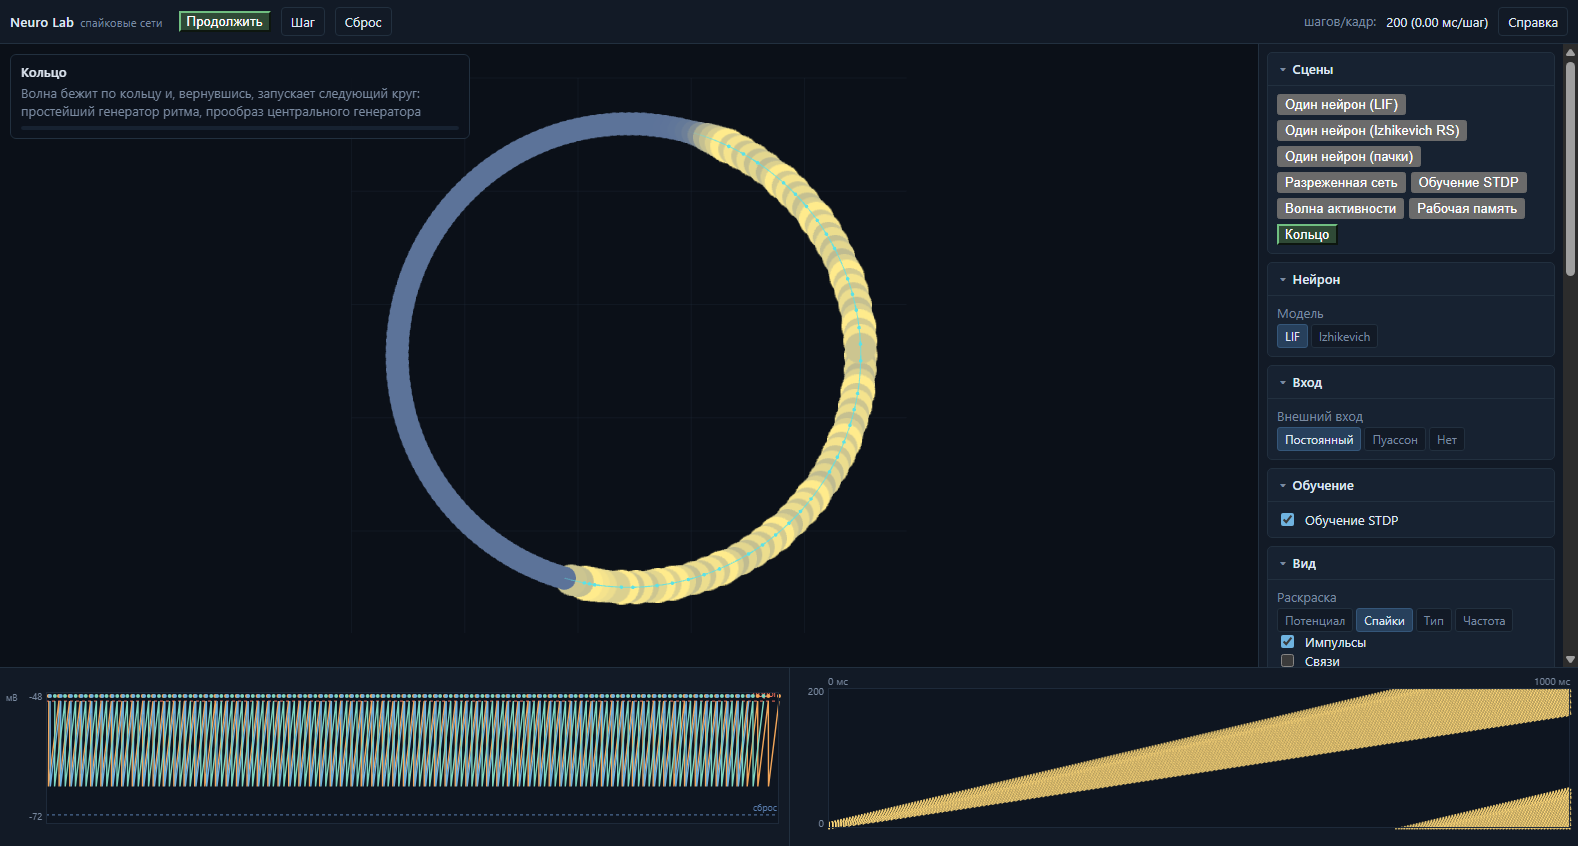
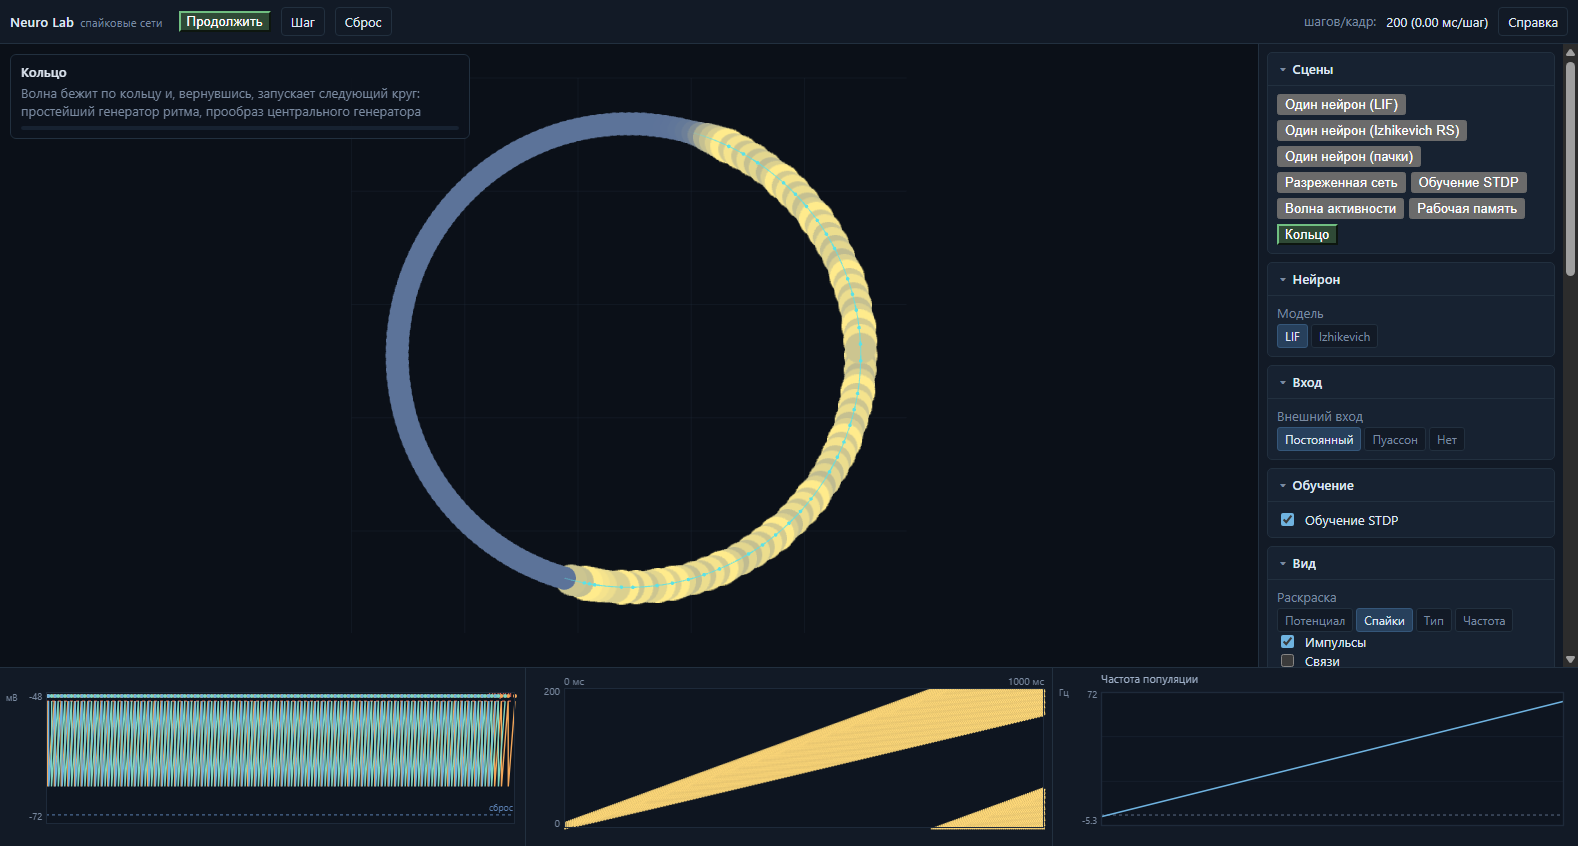
Подключён график частоты: модуль plots.ts был мёртвым кодом
Дефект 41. src/render/plots.ts — 225 строк с отрисовкой графиков — не
импортировался НИ ОДНИМ файлом. При этом app.ts каждый кадр добавлял точку в
массив trajectory (до 600 записей «время — частота») и не читал его нигде:
данные копились и выбрасывались. README обещал «графики непрерывных величин».

Нашлось проверкой «какие модули src/ не импортируются нигде»: из трёх сирот
две законные (main.ts — точка входа, performance.test.ts — тест), а plots.ts
— настоящий мёртвый код. Расход был реальным: массив пополнялся на каждом
кадре со shift() ради невидимого результата.

График подключён третьей панелью приборов: частота популяции с пунктирным
порогом «сеть молчит» (1 Гц). Дополняет существующие приборы — осциллограф
показывает один нейрон, растровая диаграмма кто когда сработал, а график
отвечает за сеть целиком.

Сетка приборов переведена на repeat(3, minmax(0, 1fr)): без minmax(0, ...)
канвасы растягивают grid-колонки по содержимому и ломают вёрстку на узком
окне.

В smoke добавлена проверка «график частоты популяции рисуется»: измерено
4916 освещённых пикселей кривой. Проверок 35 (было 34).

Changed region(s): [[0.0311, 0.7991, 0.7763, 0.9835], [0.5279, 0.7991, 1.0, 0.9835], [0.8695, 0.922, 1.0, 0.9835]]

diff --git a/src/app/app.ts b/src/app/app.ts
@@ -33,6 +33,7 @@ import { SceneRenderer } from '../render/scene.js';
 import { SceneInput } from '../input/scene-input.js';
 import { drawOscilloscope, type Trace } from '../render/oscilloscope.js';
 import { drawRaster } from '../render/raster.js';
+import { drawPlot, PLOT_COLORS } from '../render/plots.js';
 import { AppState, format } from './state.js';
 import { button, canvas, checkbox, h, rangeControl, section, statRow, toggleControl, type RangeControl } from '../ui/dom.js';
 
@@ -107,6 +108,8 @@ export interface NeuroLabApi {
     stage(): HTMLCanvasElement | null;
     raster(): HTMLCanvasElement | null;
     oscilloscope(): HTMLCanvasElement | null;
+    /** График частоты популяции (для проверок). */
+    rate(): HTMLCanvasElement | null;
   };
   /** Текущее положение кисти в мировых координатах (для проверок). */
   inputBrush(): { x: number; y: number; radius: number } | null;
@@ -129,6 +132,8 @@ export class App {
   private hudProgress!: HTMLElement;
   private rasterCanvas: HTMLCanvasElement | null = null;
   private oscilloscopeCanvas: HTMLCanvasElement | null = null;
+  /** График частоты популяции: собирается из `trajectory`. */
+  private rateCanvas: HTMLCanvasElement | null = null;
   private statHost: HTMLElement | null = null;
   private levelHost: HTMLElement | null = null;
   private reportHost: HTMLElement | null = null;
@@ -312,6 +317,7 @@ export class App {
         stage: () => this.stageHost.querySelector('canvas'),
         raster: () => this.rasterCanvas,
         oscilloscope: () => this.oscilloscopeCanvas,
+        rate: () => this.rateCanvas,
       },
       inputBrush: () => this.input?.brush ?? null,
     };
@@ -356,7 +362,29 @@ export class App {
     this.rasterCanvas = canvas('raster');
     this.rasterCanvas.dataset['instrument'] = 'raster';
     rasterBox.append(this.rasterCanvas);
-    instruments.append(oscilloscopeBox, rasterBox);
+
+    // ─── Третий прибор: график частоты популяции ─────────────────────────
+    //
+    // Почему он здесь. Приложение УЖЕ собирало данные для него: массив
+    // `trajectory` пополнялся каждый кадр (до 600 точек) и не использовался
+    // нигде — данные копились и выбрасывались. Заодно модуль `render/plots.ts`
+    // (225 строк) не импортировался ни одним файлом, а README обещал
+    // «графики непрерывных величин».
+    //
+    // График частоты полезен именно здесь: осциллограф показывает ОДИН
+    // нейрон, растровая диаграмма — кто когда сработал, а частота
+    // популяции отвечает на вопрос «что происходит со всей сетью в целом»:
+    // при обучении она падает, при разгоне растёт, у кольца выходит на
+    // постоянную.
+    //
+    // Раскраска графика совпадает с палитрой рельс (PLOT_COLORS), чтобы не
+    // вводить третью цветовую схему.
+    const rateBox = h('div', { class: 'instrument' });
+    this.rateCanvas = canvas('rate-plot');
+    this.rateCanvas.dataset['instrument'] = 'rate-plot';
+    rateBox.append(this.rateCanvas);
+
+    instruments.append(oscilloscopeBox, rasterBox, rateBox);
 
     this.host.append(topbar, this.stageHost, this.sidebar, instruments);
   }
@@ -1053,6 +1081,27 @@ export class App {
 
     this.trajectory.push({ time: network.state.time, rate: this.currentRate(network) });
     if (this.trajectory.length > 600) this.trajectory.shift();
+
+    // ─── График частоты популяции ────────────────────────────────────────
+    // Третья серия — порог «сеть молчит» (1 Гц): по нему сразу видно,
+    // работает сеть или погасла, без чтения чисел из сводки.
+    if (this.rateCanvas) {
+      drawPlot(this.rateCanvas, {
+        title: 'Частота популяции',
+        unit: 'Гц',
+        series: [
+          {
+            label: 'частота',
+            color: PLOT_COLORS.rate,
+            times: this.trajectory.map((point) => point.time),
+            values: this.trajectory.map((point) => point.rate),
+            fill: true,
+            width: 1.4,
+          },
+        ],
+        guide: { value: 1, label: 'молчание', color: PLOT_COLORS.guide },
+      });
+    }
   }
 
   /** Средняя частота популяции за прогон, Гц. */

diff --git a/src/ui/styles.css b/src/ui/styles.css
@@ -131,11 +131,23 @@ body {
 .instruments {
   grid-column: 1 / -1;
   display: grid;
-  grid-template-columns: 1fr 1fr;
+  /* Три прибора: осциллограф, растровая диаграмма, график частоты.
+     Было два столбца; третий прибор добавлен, потому что данные для него
+     уже собирались (массив `trajectory` в app.ts) и не использовались.
+     `minmax(0, 1fr)` вместо `1fr`: без него канвасы внутри grid-колонок
+     растягивают их по содержимому и ломают вёрстку на узком окне. */
+  grid-template-columns: repeat(3, minmax(0, 1fr));
   gap: 1px;
   background: var(--line);
   border-top: 1px solid var(--line);
   max-height: 240px;
+}
+
+/* На узком окне третья панель уходит во вторую строку вместо сжатия. */
+@media (max-width: 1100px) {
+  .instruments {
+    grid-template-columns: repeat(2, minmax(0, 1fr));
+  }
 }
 
 .instrument {

diff --git a/docs/NEXT-SESSION.md b/docs/NEXT-SESSION.md
@@ -1067,6 +1067,43 @@ span 3, вес 40, торможение 20 %): `28 11 11 11 12 11 … 11 4 0 0 0
 ОПИСАНЫ вместе и проверяться на согласие. Иначе они расходятся молча, а
 документация начинает обещать третье, не существующее число.
 
+### Дефект 41. Модуль графиков не использовался, а данные для него копились впустую
+
+**Что обнаружено.** `src/render/plots.ts` — 225 строк с полноценной
+отрисовкой графиков — **не импортировался ни одним файлом**. При этом
+`app.ts` КАЖДЫЙ КАДР добавлял точку в массив `trajectory` (до 600 записей
+«время — частота популяции») и **не читал его нигде**: данные копились и
+выбрасывались. README в разделе «Архитектура» обещал «графики непрерывных
+величин».
+
+**Как нашлось.** Проверкой «какие модули `src/` не импортируются нигде»:
+скрипт прошёл по всем `.ts` вне `test/` и сверил импорты. Из трёх
+«сирот» два оказались законными (`main.ts` — точка входа,
+`performance.test.ts` — тест), а `plots.ts` — настоящим мёртвым кодом.
+
+**Почему это не «просто мёртвый код».** Расход был реальным: массив
+`trajectory` пополнялся на каждом кадре (до 600 объектов, `shift()` на
+каждом шаге) ради результата, которого никто не видел. А обещание в README
+означало, что пользователь ждёт график и не находит его.
+
+**Как исправлено.** Подключён третьей панелью приборов — график частоты
+популяции с пунктирным порогом «сеть молчит» (1 Гц). Это дополняет
+существующие приборы: осциллограф показывает ОДИН нейрон, растровая
+диаграмма — кто когда сработал, а график отвечает на вопрос «что
+происходит со всей сетью» (при обучении частота падает, у кольца выходит на
+постоянную).
+
+**Проверено.** `smoke`: «график частоты популяции рисуется» — до первого
+кадра канвас пуст, после прогона измерено 4 916 освещённых пикселей кривой.
+Сетка приборов переведена на `repeat(3, minmax(0, 1fr))`: без `minmax(0, …)`
+канвасы растягивают grid-колонки по содержимому и ломают вёрстку на узком
+окне (проверено в `smoke` — «узкое окно не ломает вёрстку»).
+
+**Мораль.** «Мёртвый код» редко бывает безвредным: здесь он тянул за собой
+постоянную работу в горячем цикле и ложное обещание в документации. Полезная
+проверка — не «есть ли неиспользуемые экспорты», а «какие МОДУЛИ никто не
+импортирует»: она ловит целые готовые подсистемы, забытые при сборке.
+
 ---
 
 ## Ловушки окружения (не нейронауки)
